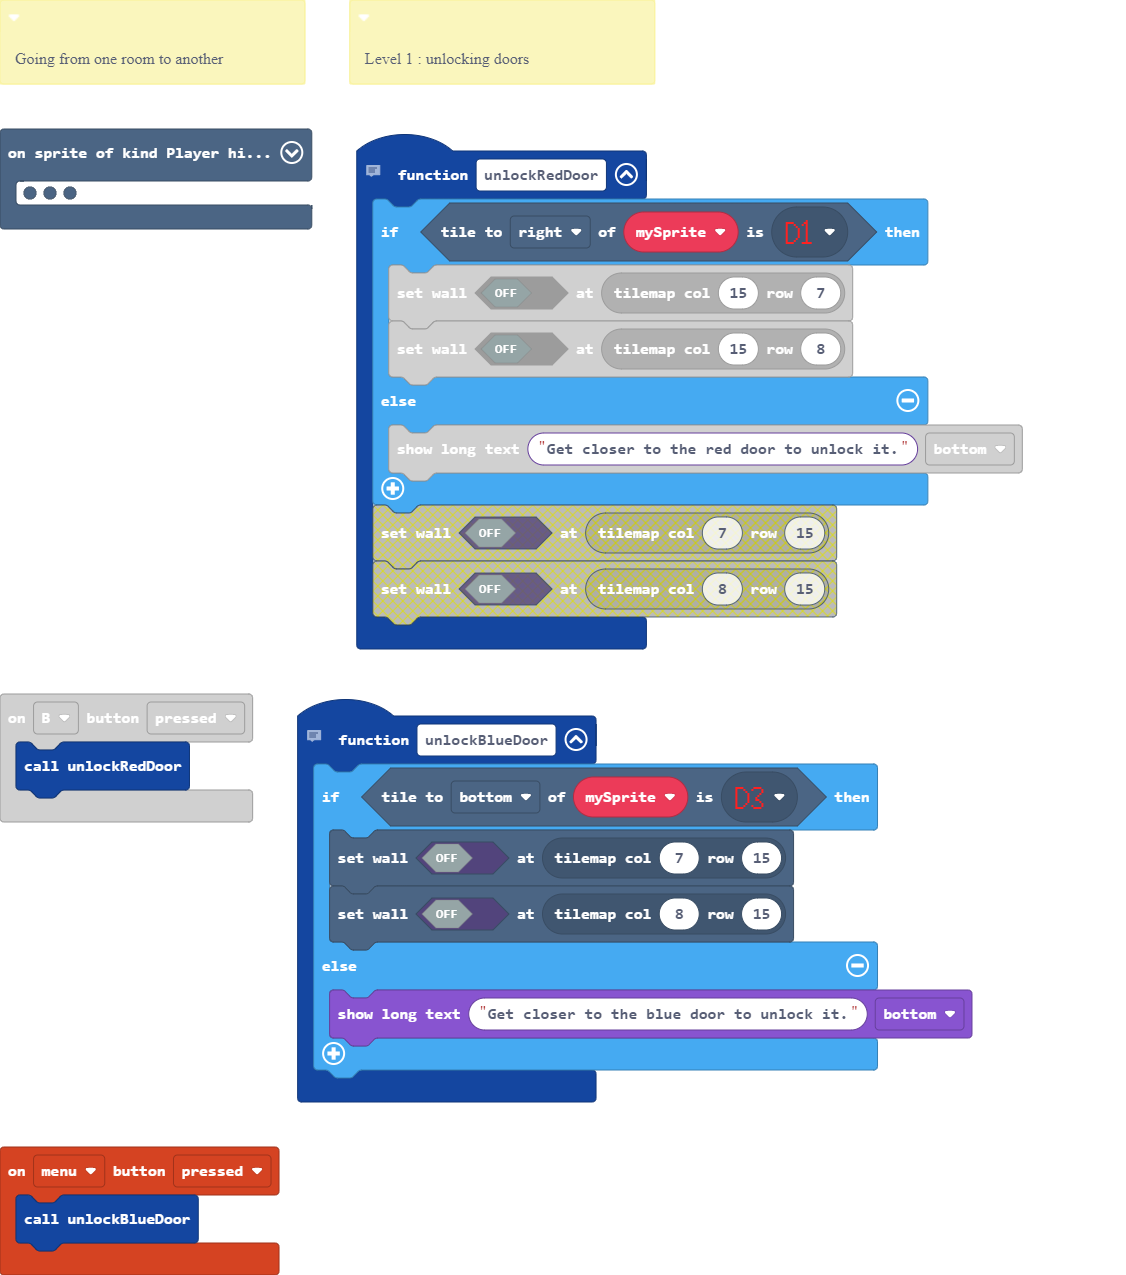
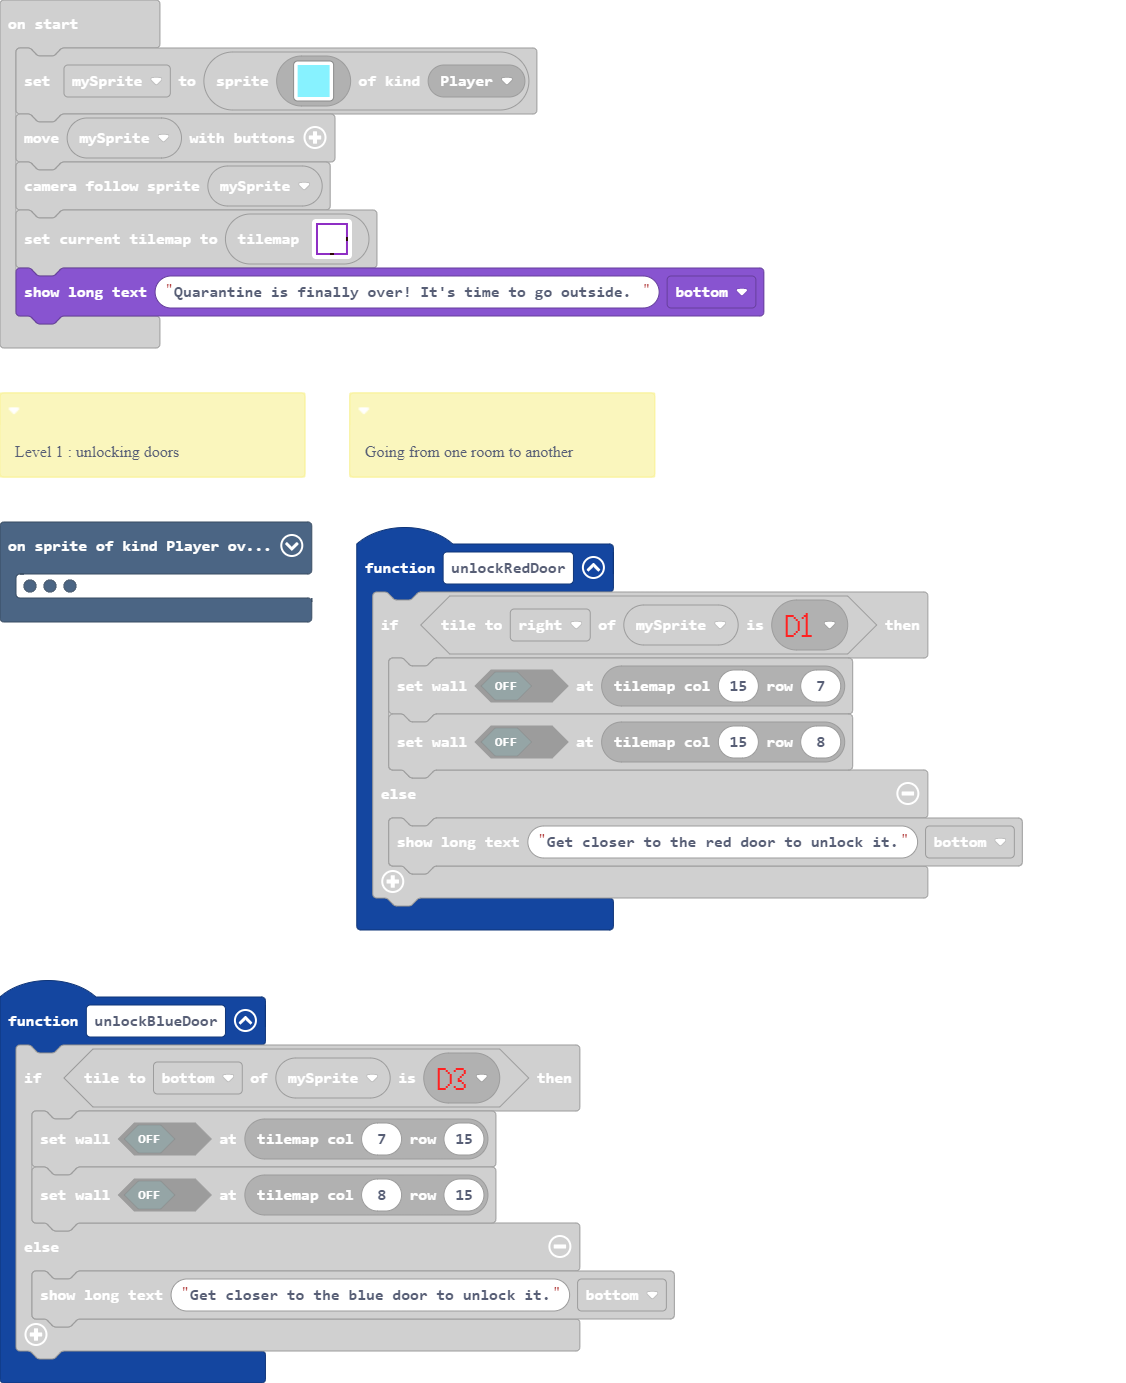
Update main.blocks, main.ts

diff --git a/main.ts b/main.ts
@@ -2,9 +2,6 @@ namespace SpriteKind {
     export const Door = SpriteKind.create()
 }
 /**
- * Going from one room to another
- */
-/**
  * Level 1 : unlocking doors
  */
 // enter other bedroom
@@ -60,7 +57,6 @@ scene.onHitWall(SpriteKind.Player, function (sprite, location) {
 controller.B.onEvent(ControllerButtonEvent.Pressed, function () {
     unlockRedDoor()
 })
-// Funky behavior - must be touching D1, walls at D1 and D3 disappear at same time
 function unlockRedDoor () {
     if (mySprite.tileKindAt(TileDirection.Right, myTiles.tile2)) {
         tiles.setWallAt(tiles.getTileLocation(15, 7), false)
@@ -69,6 +65,9 @@ function unlockRedDoor () {
         game.showLongText("Get closer to the red door to unlock it.", DialogLayout.Bottom)
     }
 }
+/**
+ * Going from one room to another
+ */
 // enter my bedroom
 scene.onOverlapTile(SpriteKind.Player, myTiles.tile4, function (sprite, location) {
     if (sprite.top < 16) {
@@ -80,15 +79,15 @@ scene.onOverlapTile(SpriteKind.Player, myTiles.tile4, function (sprite, location
             2 . . . . . . . . . . . . . . 2 
             2 . . . . . . . . . . . . . . 2 
             2 . . . . . . . . . . . . . . 2 
-            2 . . . . . . . . . . . . . . . 
-            2 . . . . . . . . . . . . . . . 
             2 . . . . . . . . . . . . . . 2 
             2 . . . . . . . . . . . . . . 2 
             2 . . . . . . . . . . . . . . 2 
             2 . . . . . . . . . . . . . . 2 
             2 . . . . . . . . . . . . . . 2 
             2 . . . . . . . . . . . . . . 2 
-            2 2 2 2 2 2 2 . . 2 2 2 2 2 2 2 
+            2 . . . . . . . . . . . . . . 2 
+            2 . . . . . . . . . . . . . . 2 
+            2 2 2 2 2 2 2 2 2 2 2 2 2 2 2 2 
             `, [myTiles.transparency16,myTiles.tile1,myTiles.tile2,myTiles.tile5], TileScale.Sixteen)))
         sprite.bottom = 220
     } else if (sprite.left < 16) {
@@ -100,15 +99,15 @@ scene.onOverlapTile(SpriteKind.Player, myTiles.tile4, function (sprite, location
             2 . . . . . . . . . . . . . . 2 
             2 . . . . . . . . . . . . . . 2 
             2 . . . . . . . . . . . . . . 2 
-            2 . . . . . . . . . . . . . . . 
-            2 . . . . . . . . . . . . . . . 
             2 . . . . . . . . . . . . . . 2 
             2 . . . . . . . . . . . . . . 2 
             2 . . . . . . . . . . . . . . 2 
             2 . . . . . . . . . . . . . . 2 
             2 . . . . . . . . . . . . . . 2 
             2 . . . . . . . . . . . . . . 2 
-            2 2 2 2 2 2 2 . . 2 2 2 2 2 2 2 
+            2 . . . . . . . . . . . . . . 2 
+            2 . . . . . . . . . . . . . . 2 
+            2 2 2 2 2 2 2 2 2 2 2 2 2 2 2 2 
             `, [myTiles.transparency16,myTiles.tile1,myTiles.tile2,myTiles.tile5], TileScale.Sixteen)))
         sprite.right = 220
     }
@@ -160,7 +159,6 @@ scene.onOverlapTile(SpriteKind.Player, myTiles.tile6, function (sprite, location
 controller.menu.onEvent(ControllerButtonEvent.Pressed, function () {
     unlockBlueDoor()
 })
-// Funky behavior - must be touching D1, walls at D1 and D3 disappear at same time
 function unlockBlueDoor () {
     if (mySprite.tileKindAt(TileDirection.Bottom, myTiles.tile5)) {
         tiles.setWallAt(tiles.getTileLocation(7, 15), false)
@@ -252,3 +250,4 @@ tiles.loadMap(tiles.createMap(tiles.createTilemap(hex`10001000010101010101010101
     2 . . . . . . . . . . . . . . 2 
     2 2 2 2 2 2 2 2 2 2 2 2 2 2 2 2 
     `, [myTiles.transparency16,myTiles.tile1,myTiles.tile2,myTiles.tile5], TileScale.Sixteen)))
+game.showLongText("Quarantine is finally over! It's time to go outside. ", DialogLayout.Bottom)
